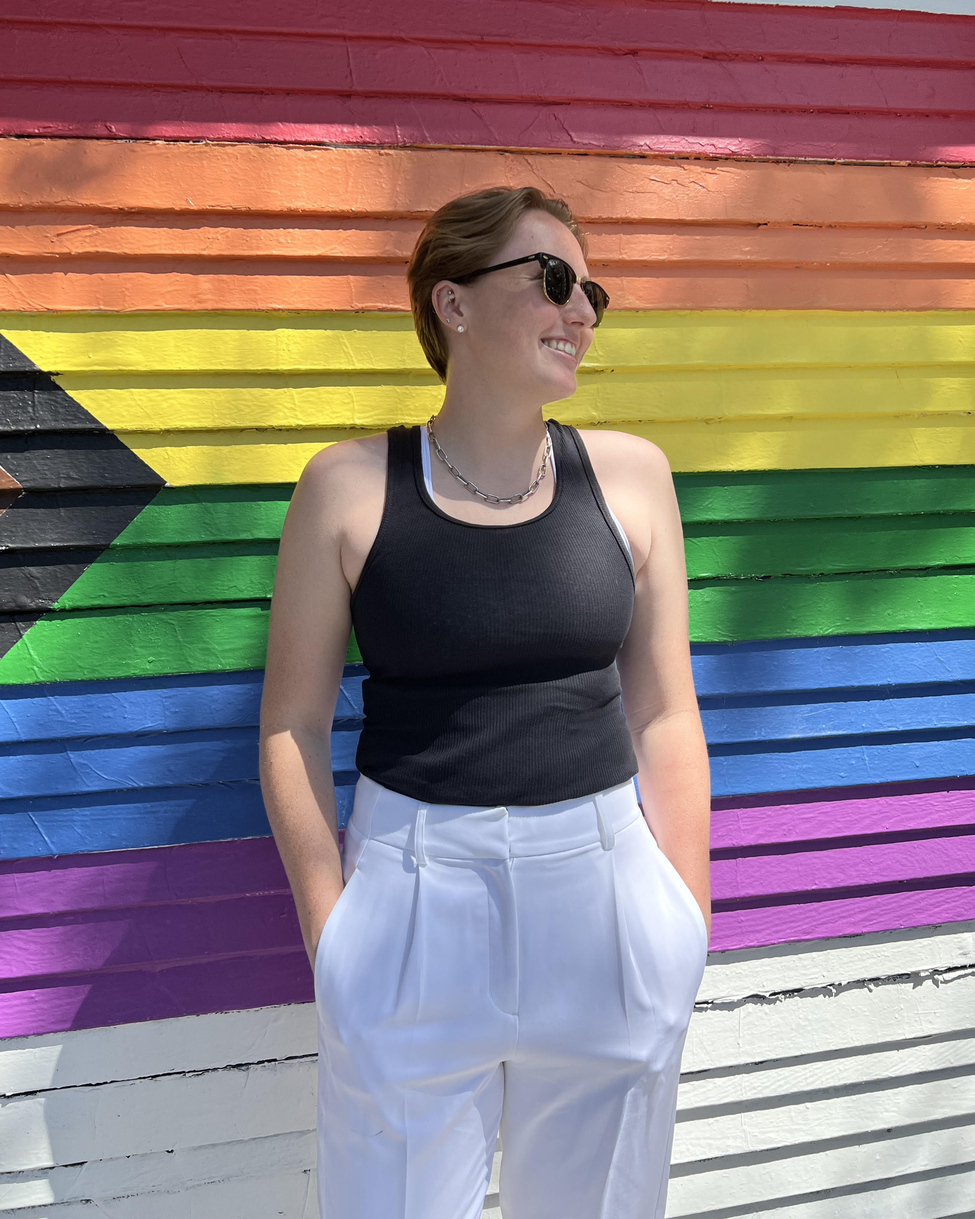
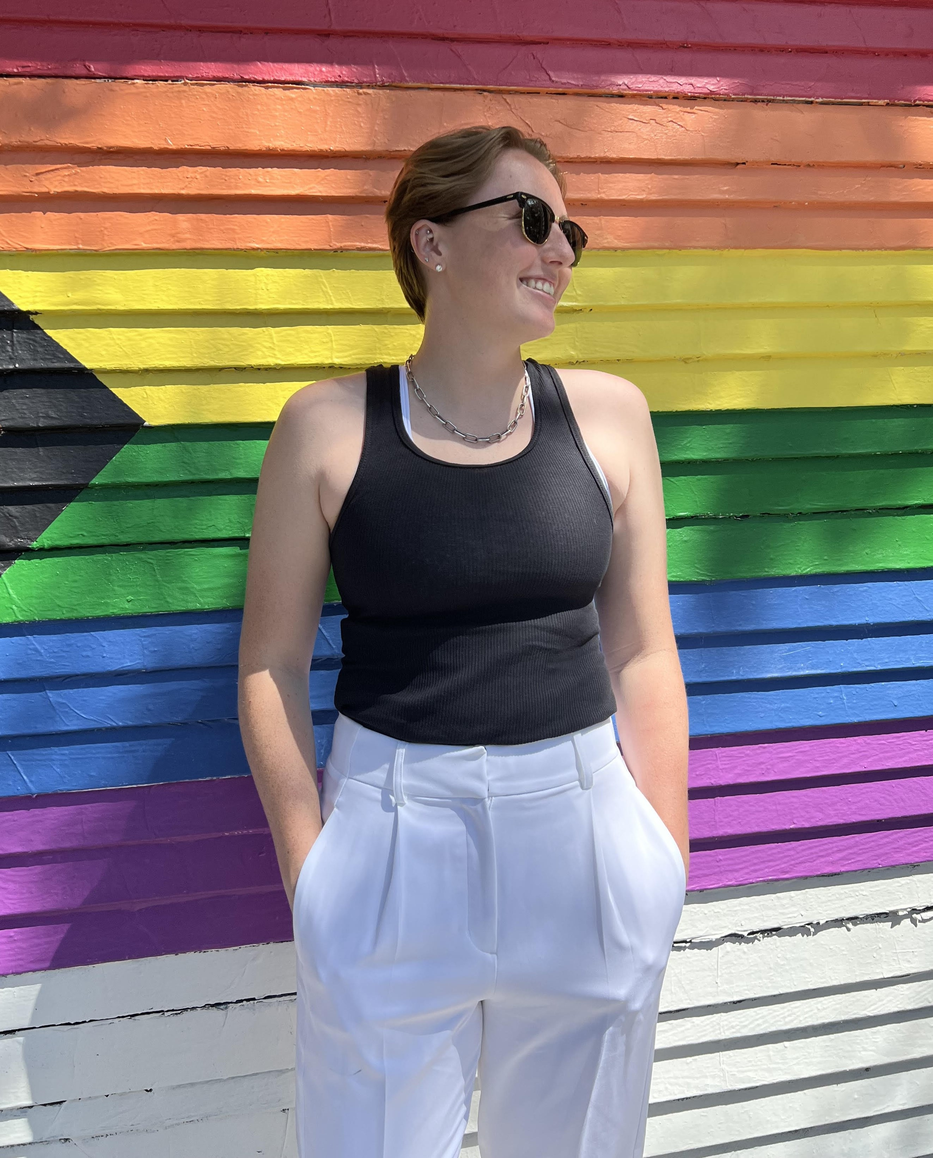
updated pictures

diff --git a/visuals.html b/visuals.html
@@ -54,7 +54,7 @@
 
                 <!-- Break -->
                 <div class="col-4"><span class="image fit"><img src="images/sj_imports.png" alt="" /></span></div>
-                <div class="col-4"><span class="image fit"><img src="images/proud1.png" alt="" /><ontop>Proud</ontop></span></div>
+                <div class="col-4"><span class="image fit"><img src="images/seattle-cropped.png" alt="" /><ontop>Proud</ontop></span></div>
                 <div class="col-4"><span class="image fit"><img src="images/bell_quote.png" alt="" /></span></div>
                 <!-- Break -->
                 <div class="col-4"><span class="image fit"><img src="images/sboard.jpg" alt="" /><ontop>Authentic</ontop></span></div>
